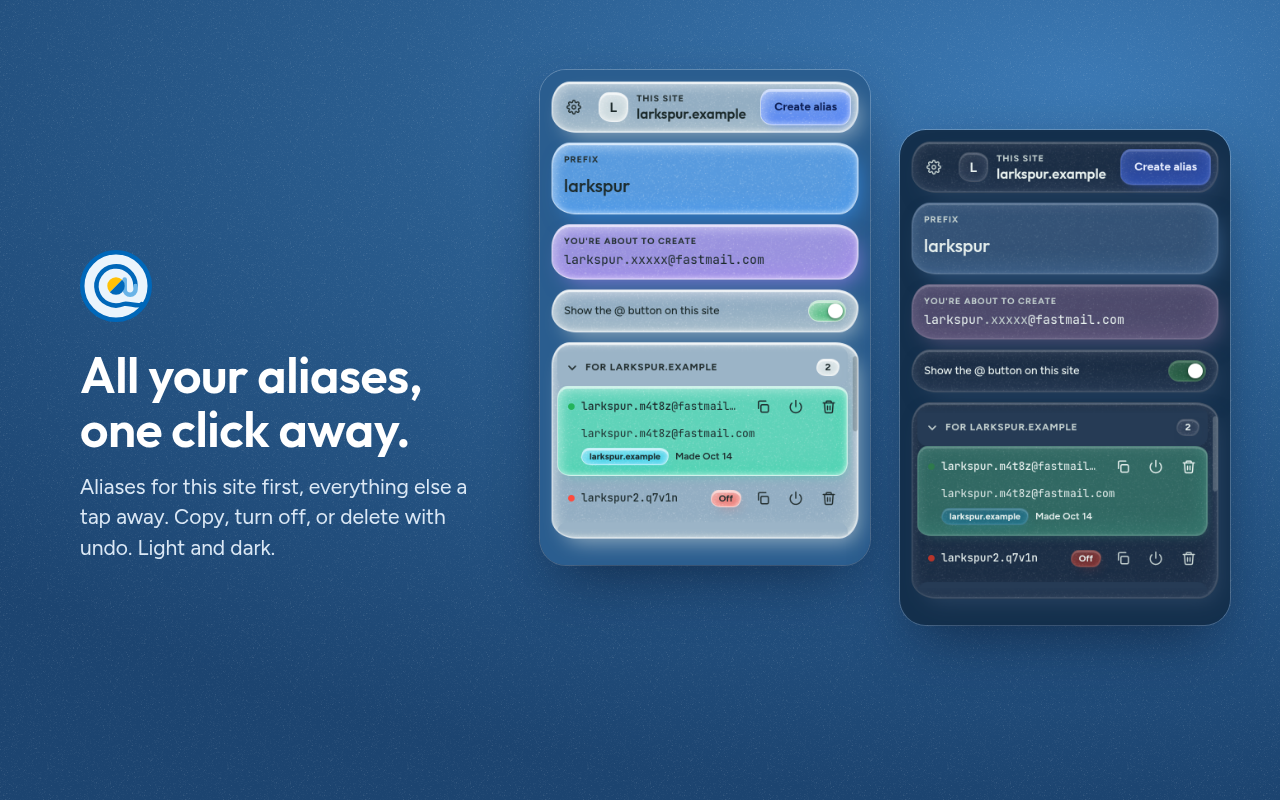
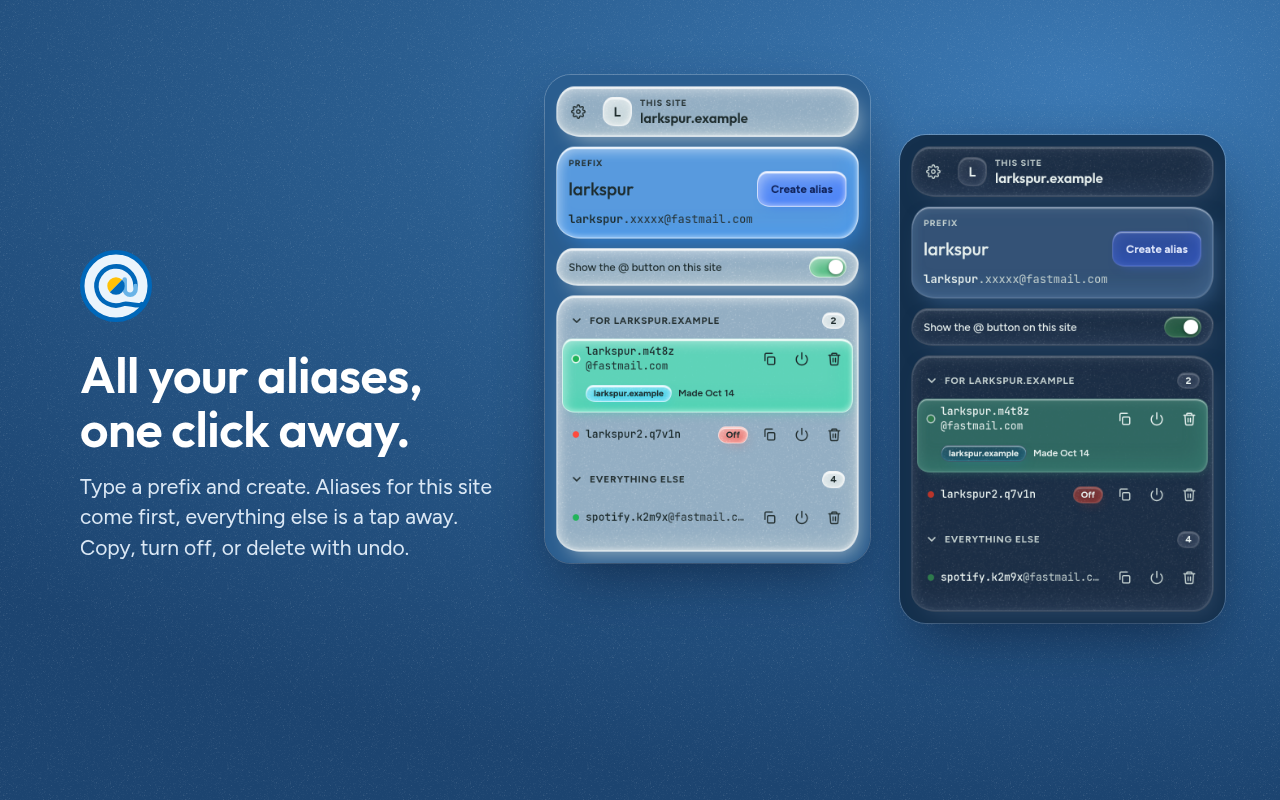
1.3.0: Collapsible "Your aliases" and new store images
"Your aliases" (shown when the site has none) is now a collapsible section like the others, starting open, with its own remembered state, so the popup can shrink to just the create card. New Chrome Web Store screenshots and marquee showing the v2 popup and the @ placement next to password-manager icons.

Changed region(s): [[0.4062, 0.0938, 0.9688, 0.7812], [0.0625, 0.5938, 0.375, 0.7188]]

diff --git a/popup.js b/popup.js
@@ -139,15 +139,14 @@ async function refresh(selectId) {
     // Two dropdown sections only when this site has an alias; otherwise one plain, always-open list.
     const split = here.length > 0;
     $('sec-here-wrap').hidden = $('sec-rest-btn').hidden = !split;
-    $('plain-head').hidden = split;
-    $('sec-rest').setAttribute('aria-labelledby', split ? 'sec-rest-title' : 'plain-title');
+    $('sec-all-btn').hidden = split;
+    $('sec-rest').setAttribute('aria-labelledby', split ? 'sec-rest-title' : 'sec-all-title');
     $('sec-here').replaceChildren(...here.map(aliasRow));
     $('sec-rest').replaceChildren(...rest.map(aliasRow));
     $('sec-here-count').textContent = here.length;
     $('sec-rest-count').textContent = rest.length;
-    $('plain-count').textContent = list.length;
-    if (split) for (const name of Object.keys(SECTIONS)) setSection(name, SECTIONS[name]);
-    else $('sec-rest').hidden = false;
+    $('sec-all-count').textContent = list.length;
+    for (const name of split ? ['here', 'rest'] : ['all']) setSection(name, SECTIONS[name]);
     select(selectId !== undefined ? selectId : list.some(a => a.id === selectedId) ? selectedId : null);
     if (fid && fact) document.querySelector(`.alias[data-id="${CSS.escape(fid)}"] [data-act="${fact}"]`)?.focus();
     $('list').hidden = !list.length;
@@ -185,8 +184,10 @@ async function showSiteSwitch() {
 }
 $('site-toggle').onchange = () => send({ type: 'setSiteHidden', host, hidden: !$('site-toggle').checked }).catch(showError);
 
-// Collapsible sections; open/closed is remembered. With no website there's only one section, so it starts open.
-const SECTIONS = { here: true, rest: false };
+// Collapsible sections; each one's open/closed state is remembered. "Your aliases" (all, when this site has none) and
+// "Everything else" show the same list, so they share its <ul> but keep separate states.
+const SECTIONS = { here: true, rest: false, all: true };
+const SECTION_LIST = { here: 'sec-here', rest: 'sec-rest', all: 'sec-rest' };
 // Mark which ends of the alias list have more to scroll to, for the fades.
 // ...and which section header is stuck at the top (only that one gets a frosted background).
 function fades() {
@@ -202,7 +203,7 @@ for (const id of ['sec-here', 'sec-rest', 'list']) listSize.observe($(id));
 function setSection(name, open) {
   SECTIONS[name] = open;
   $(`sec-${name}-btn`).setAttribute('aria-expanded', open);
-  $(`sec-${name}`).hidden = !open;
+  $(SECTION_LIST[name]).hidden = !open;
 }
 for (const name of Object.keys(SECTIONS)) $(`sec-${name}-btn`).onclick = () => {
   setSection(name, !SECTIONS[name]);

diff --git a/popup.html b/popup.html
@@ -33,7 +33,7 @@
 
   <section class="sea sea-quiet list" id="list" hidden>
     <div class="list-scroll">
-    <div class="sec-head plain" id="plain-head" hidden><span class="sec-title" id="plain-title">Your aliases</span><span class="count sea sea-sm" id="plain-count">0</span></div>
+    <button class="sec-head" id="sec-all-btn" aria-expanded="true" aria-controls="sec-rest" hidden><svg class="chev" viewBox="0 0 24 24" fill="none" stroke="currentColor" stroke-width="2.4" stroke-linecap="round" stroke-linejoin="round" aria-hidden="true"><path d="m9 6 6 6-6 6"/></svg><span class="sec-title" id="sec-all-title">Your aliases</span><span class="count sea sea-sm" id="sec-all-count">0</span></button>
     <div id="sec-here-wrap" hidden>
       <button class="sec-head" id="sec-here-btn" aria-expanded="true" aria-controls="sec-here"><svg class="chev" viewBox="0 0 24 24" fill="none" stroke="currentColor" stroke-width="2.4" stroke-linecap="round" stroke-linejoin="round" aria-hidden="true"><path d="m9 6 6 6-6 6"/></svg><span class="sec-title" id="sec-here-title">For this site</span><span class="count sea sea-sm" id="sec-here-count">0</span></button>
       <ul id="sec-here" aria-labelledby="sec-here-title"></ul>
